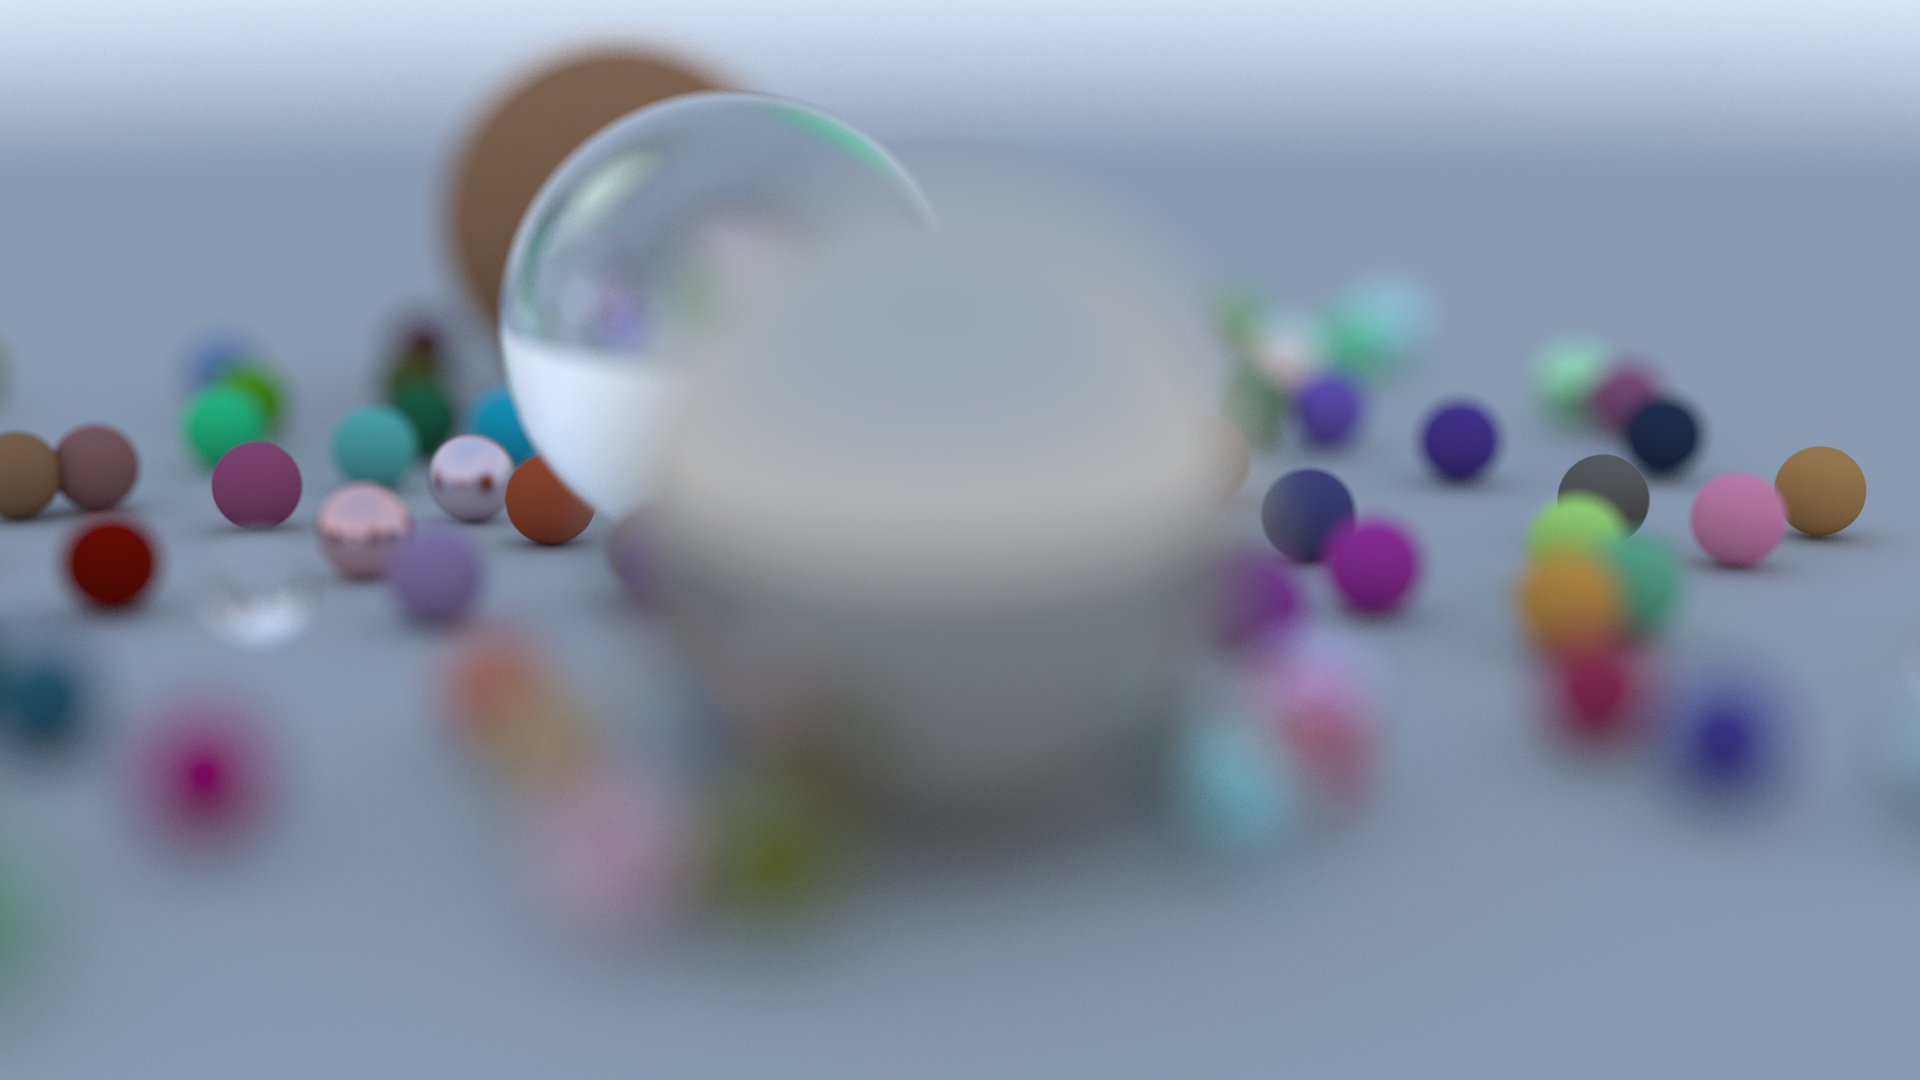
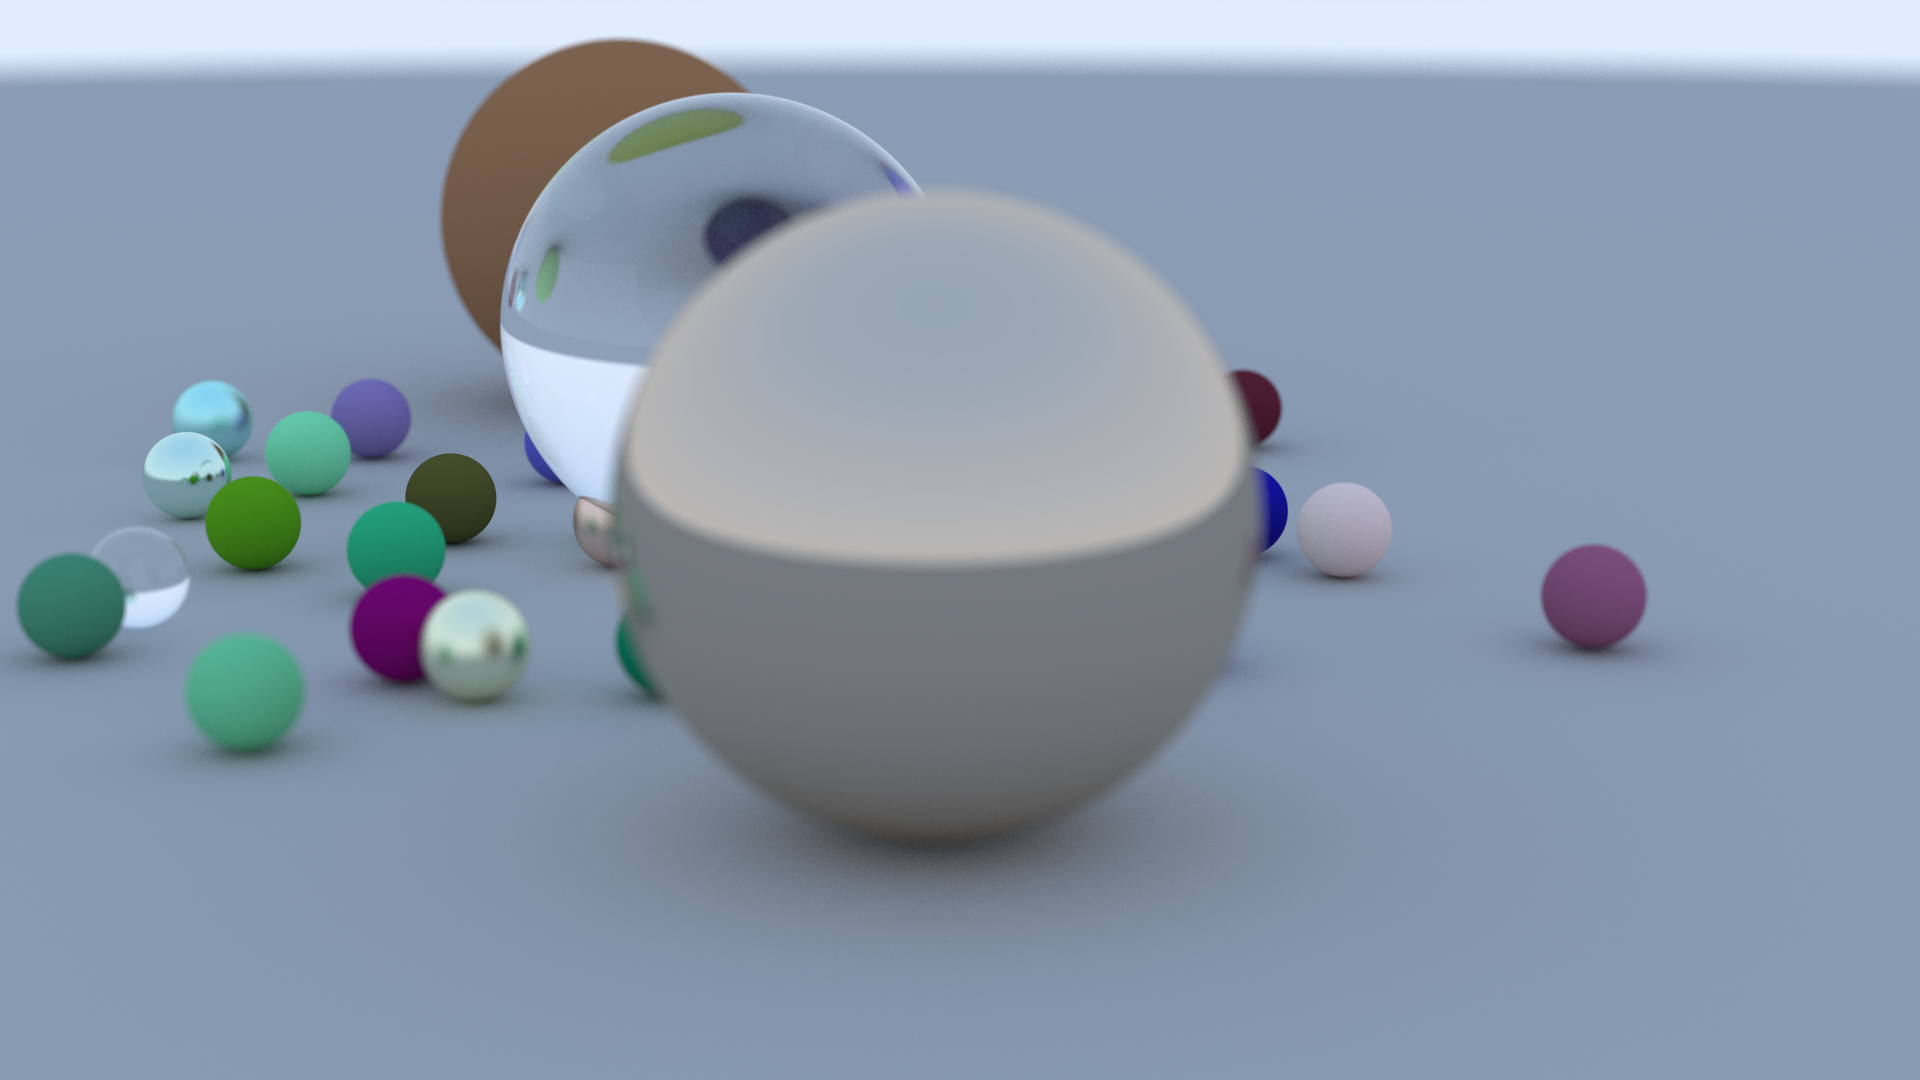
Lower the aperture

diff --git a/main.cpp b/main.cpp
@@ -13,8 +13,8 @@ hittable_list random_scene() {
     auto ground_material = make_shared<lambertian>(color(0.5, 0.5, 0.5));
     world.add(make_shared<sphere>(point3(0, -1000, 0), 1000, ground_material));
 
-    for (int a = -5; a < 5; a++) {
-        for (int b = -5; b < 5; b++) {
+    for (int a = -3; a < 3; a++) {
+        for (int b = -3; b < 3; b++) {
             auto choose_mat = random_double();
             point3 center(a + 0.9 * random_double(), 0.2,
                           b + 0.9 * random_double());
@@ -137,7 +137,7 @@ int main() {
     point3 lookat(0, 0, -1);
     vec3 vup(0, 1, 0);
     auto dist_to_focus = (lookfrom-lookat).length();
-    auto aperture = 1.2;
+    auto aperture = 0.2;
 
     // Camera - 90.0 vertical fov (degrees), 16:9 aspect ratio
     camera cam(lookfrom,            // vec3 lookfrom
